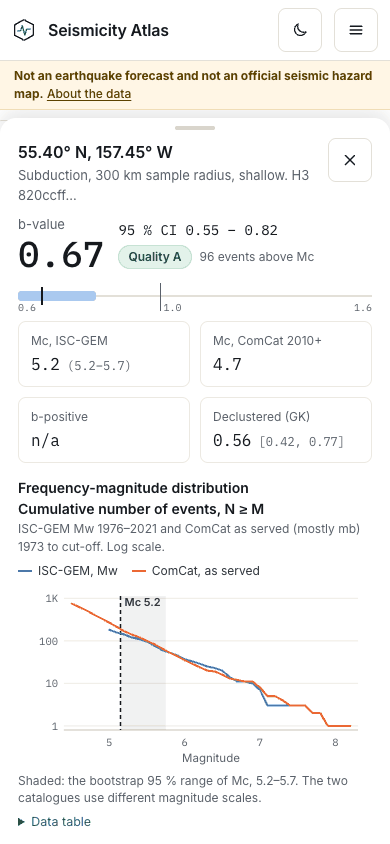
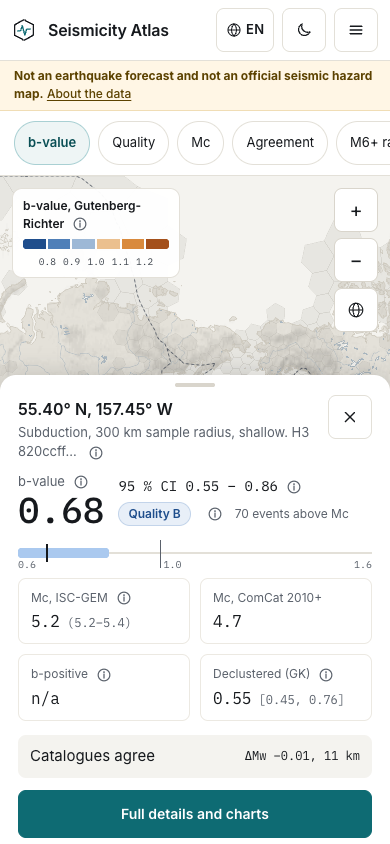
Docs: final info-button table in docs/learn.md and a Learn section in the README; refreshed screenshots; About source list wraps at 360 px

diff --git a/docs/learn.md b/docs/learn.md
@@ -5,14 +5,15 @@ structure: one sentence, a simple explanation with an everyday picture, a **real
 at run time**, an interactive diagram, technical details, further reading and previous/next navigation.
 A concept page is `#v=learn&t=<concept-id>`; the index is `#v=learn`.
 
-Phase 1 (this document's first version) adds the view, the content in four languages and the `infoButton`
-helper. Phase 2 places the (i) buttons in the map, panel, legend and pages, using the table at the end.
+The (i) buttons that open these pages from the rest of the site are listed in the table at the end.
 
 ## Files
 
 | Path | What it holds |
 |---|---|
-| `site/js/info.js` | `infoButton(conceptId, label)`: the (i) link, `#v=learn&t=<id>`, accessible name "What is {label}? Open the explanation" |
+| `site/js/info.js` | `infoButton(id)`, `withInfo(el, id)`, `infoKey(items)`: the (i) buttons, accessible name "About <concept>" |
+| `site/js/info-rail.js` | places the buttons in the static map controls and the disclaimer |
+| `tests/e2e/test_info.py` | browser tests of every button |
 | `site/js/learn/registry.js` | `CONCEPTS` (id, group, diagram) in reading order and `GROUPS` |
 | `site/js/learn/view.js` | `renderLearn(root, {topic, back})`: index and concept pages, language fallback, placeholder filling |
 | `site/js/learn/examples.js` | one loader per concept: `{vars, map, data}` read from `site/data` |
@@ -25,7 +26,7 @@ helper. Phase 2 places the (i) buttons in the map, panel, legend and pages, usin
 | `site/js/i18n/<lang>.js`, block `// learn` | interface strings of the Learn view |
 | `tests/e2e/test_learn.py` | browser tests |
 
-Shared-file hooks are deliberately small: `app.js` registers the `learn` view, the `t` hash parameter, a
+Shared-file hooks of the Learn view itself are small: `app.js` registers the `learn` view, the `t` hash parameter, a
 remembered return hash and a dynamic `import('./learn/view.js')`; `index.html` adds one nav link, one section and
 one stylesheet link. Nothing under `site/js/learn/` is fetched on a first visit to the map (covered by a test).
 
@@ -74,7 +75,7 @@ for Learn. All DOIs except the CORSSA one (DataCite, taken from `docs/prior-work
 ## Adding a concept
 
 1. Add `{ id, group, diagram }` to `CONCEPTS` in `registry.js`, at the place it should appear in the reading order.
-   Ids are stable kebab-case; they appear in URLs and in phase-2 buttons, so never rename one.
+   Ids are stable kebab-case; they appear in URLs and in the (i) buttons, so never rename one.
 2. Add a loader to `EXAMPLES` in `examples.js` returning `{ vars, map, data }`. Choose the example by a rule, format
    every number with `fmt.js`, and build the map link with `mapHash()` (no language: the current one is kept).
 3. Write `diagrams/<name>.js` (or reuse one) with `figure()`, `frame()`, `slider()`, `toggle()` and, for motion,
@@ -87,7 +88,9 @@ for Learn. All DOIs except the CORSSA one (DataCite, taken from `docs/prior-work
 5. Add references to `refs.js` (only works cited in `docs/`; check the DOI).
 6. Translate into `uz`, `ru`, `es` with the same keys and placeholders, and add the id to each `_index.js`. A language
    whose `_index.js` lacks the id shows the English page with a "translation pending" note, never an empty page.
-7. Add the id to `CONCEPTS` in `tests/e2e/test_learn.py` and run the tests.
+7. Add `learn.c.<id>` (the title, used in the buttons' "About …" name) to the `// learn` block of every i18n file.
+8. Add the id to `CONCEPTS` in `tests/e2e/test_learn.py`, place buttons where the concept is shown (update the
+   table below and `VIEWS` in `tests/e2e/test_info.py`) and run the tests.
 
 ## Languages
 
@@ -107,102 +110,165 @@ pending note, diagram and map link present), the diagram controls (including key
 the info button, "Back to where I was", "Show this on the map", language persistence across links and reloads, an
 unknown id, and that the map's first load does not fetch Learn code.
 
-## Phase 2: where the (i) buttons go
+## Info buttons: where each (i) points
 
-Use `infoButton(id, label)` from `site/js/info.js`, placed right after the visible label; `label` is the same
-translated text the element already shows. The button is a link, so it works from any view; the Learn page offers
-"Back to where I was", which returns to the exact previous hash (layer, depth, cell, map position, comparison).
+`infoButton(id)` (`site/js/info.js`) is a `<button>` with the accessible name "About <concept title>" in the current
+language (`learn.about` and `learn.c.<id>` in the `// learn` block of each i18n file), a 24 × 24 px target and a
+16 px icon. Clicking it (or Enter/Space) sets `#v=learn&t=<id>`; `app.js` remembers the previous hash, and the Learn
+page's "Back to where I was" restores it exactly (view, layer, depth, cell, comparison, map position, sequence).
+Buttons in the static map controls are placed by `site/js/info-rail.js` and relabelled on a language change.
 
-### Map controls (`index.html`, `app.js`)
+**Placement rules** (checked against the ui-ux-pro-max guidance: consistent position of help, web target ≥ 24 px,
+≥ 8 px from the next target, no clutter):
 
-| UI element | Where (file, selector or i18n key) | Concept id |
+- the button sits right after the label or heading it explains, never next to each number;
+- at most one button per concept per block (control group, legend, panel section, card, notice). A concept can
+  appear in two blocks of one view, for example b in the panel summary and again on the "b against cutoff" chart;
+- list pages with many cards (Sequences, Ongoing) get one key strip of terms above the cards (`infoKey`), not a
+  button on every card;
+- tooltips get none (hover-only, too small); the cell panel that a click opens carries the same terms.
+
+### Counts per view (desktop, measured)
+
+| View | Buttons |
+|---|---|
+| Disclaimer strip (every view) | 1 |
+| Map controls (rail) | 10 |
+| Legend (b layer with plates and events on; regional block when a region is chosen) | 1 title + 1 per overlay or region block (3 with plates and events) |
+| Cell panel (global cell, with charts) | 12 |
+| Comparison verdict | 2 (3 when the cells come from different catalogues) |
+| Sequences | 3 (key strip) |
+| Ongoing (Sequence Monitor) | 7 (notice + key strip of 6) |
+| Depth 3D | 4 |
+| Validation | 10 |
+| About | 2 |
+
+### Map controls (`index.html`, placed by `info-rail.js`)
+
+| UI element | Selector / i18n key | Concept id |
 |---|---|---|
-| Layer chip "b-value" | `#chips [data-layer=b]`, `chip.b` | `gutenberg-richter-b-value` |
-| Layer chip "Quality" | `#chips [data-layer=q]`, `chip.q` | `quality-codes` |
-| Layer chip "Mc" | `#chips [data-layer=mc]`, `chip.mc` | `magnitude-of-completeness` |
-| Layer chip "Agreement" | `#chips [data-layer=cc]`, `chip.cc` | `catalogue-consistency` |
-| Layer chip "M6+ rate" | `#chips [data-layer=rate]`, `chip.rate` | `rate-m6` |
-| Depth chip / Depth group | `#chip-depth`, `rail.depth` legend of `#depth-seg` | `depth-and-slabs` |
-| Layer list "b-value with 95 % interval" | `#layer-list input[value=b]`, `ll.b` | `gutenberg-richter-b-value` |
-| Layer list hint "Quality-gated" | `ll.bHint` | `quality-codes` |
-| Layer list "Estimate quality" | `ll.q` | `quality-codes` |
-| Layer list "Completeness Mc" | `ll.mc` | `magnitude-of-completeness` |
-| Layer list "Catalogue disagreement" | `ll.cc` | `catalogue-consistency` |
-| Layer list "Mw ≥ 6 rate" | `ll.rate` | `rate-m6` |
-| Regional catalogues group | `#reg-group` legend, `reg.group` | `regional-catalogues` |
-| Overlay "Plate boundaries (PB2002)" | `#chk-plates` label, `rail.plates` | `plate-boundary-classes` |
-| Overlay "Events M ≥ 6 / M ≥ 5" | `#lbl-m6`, `#lbl-m5` | `magnitude-types` |
-| "Statistics window" and its hint | `rail.window`, `rail.windowHint` | `direct-vs-proxy-mw` |
 | Disclaimer strip | `#disclaimer`, `disc.strong` | `not-a-forecast` |
+| Depth group title | `#depth-seg` legend, `rail.depth` | `depth-and-slabs` |
+| Layer "b-value with 95 % interval" | `#layer-list` row `b`, `ll.b` | `gutenberg-richter-b-value` |
+| Layer "Estimate quality" | row `q`, `ll.q` | `quality-codes` |
+| Layer "Completeness Mc" | row `mc`, `ll.mc` | `magnitude-of-completeness` |
+| Layer "Catalogue disagreement" | row `cc`, `ll.cc` | `catalogue-consistency` |
+| Layer "Mw ≥ 6 rate" | row `rate`, `ll.rate` | `rate-m6` |
+| Layer "No cell layer" | row `none` | (none) |
+| Regional catalogues group | `#reg-group` legend, `reg.group` | `regional-catalogues` |
+| Overlay "Plate boundaries (PB2002)" | `#chk-plates` row, `rail.plates` | `plate-boundary-classes` |
+| Overlay "Events M ≥ 6" | `#chk-events` row, `#lbl-m6` | `magnitude-types` |
+| "Statistics window" | `.stat-window .group-title`, `rail.window` | `direct-vs-proxy-mw` |
+| Phone layer chips | `#chips` | (none: chips are buttons; the same rail opens with "More") |
+| Base map group (relief, 3D terrain) | `#bm-group` | (none, see below) |
 
-### Legend (`layers.js` / `map.js`, keys `layer.*`, `lg.*`)
-
-| UI element | i18n key | Concept id |
-|---|---|---|
-| b legend title | `layer.b.title` | `gutenberg-richter-b-value` |
-| b legend unit line ("events within {r} km of the cell centre") | `layer.b.unit` | `h3-cells-and-sample-radius` |
-| Quality A / B / C rows, "Insufficient" row | `layer.b.qA`, `layer.b.qB`, `layer.b.qC`, `layer.insufficient`, `layer.q.*` | `quality-codes` |
-| Quality legend unit ("bootstrap 95 % interval") | `layer.q.unit` | `confidence-interval-bootstrap` |
-| Mc legend titles | `layer.mc.title.ig`, `.cc`, `.cc0` | `magnitude-of-completeness` |
-| Mc ComCat note ("not on the same scale as ISC-GEM") | `layer.mc.noteCc` | `magnitude-types` |
-| Agreement legend, ΔMw, epicentre difference | `layer.cc.title`, `layer.dmw.title`, `layer.dloc.title` | `catalogue-consistency` |
-| Rate legend title and note | `layer.rate.title`, `layer.rate.note` | `rate-m6` (note: `not-a-forecast`) |
-| Plate boundary legend line | `lg.plates` | `plate-boundary-classes` |
-| Earthquakes legend ("Earthquakes by magnitude") | `lg.quakes` | `magnitude-types` |
-| Regional legend block | regional name / licence line | `regional-catalogues` |
-
-### Cell panel (`panel.js`, keys `panel.*`, `fmd.*`, `mct.*`, `bc.*`, `agree.*`, `yr.*`)
+### Legend (`map.js` `renderLegend`)
 
 | UI element | i18n key | Concept id |
 |---|---|---|
-| Panel meta "{pb}, {r} km sample radius, {depth}" | `panel.meta` | `h3-cells-and-sample-radius` (plate class part: `plate-boundary-classes`) |
-| Big "b-value" label | `panel.bvalue` | `gutenberg-richter-b-value` |
-| "95 % CI lo – hi" and the interval scale bar | `panel.ci` | `confidence-interval-bootstrap` |
-| Quality pill (A/B/C/insufficient) | `qPill()` in `panel.js` | `quality-codes` |
-| "Cutoff-unstable" note | `panel.unstable` | `quality-codes` |
-| "Why no b" text (C or too few) | `panel.whyC`, `panel.whyFew`, `panel.noB.*` | `quality-codes` |
-| Tile "Mc, ISC-GEM" / "Mc, ComCat 2010+" | `panel.mcIg`, `panel.mcCc` | `magnitude-of-completeness` |
-| Tile "Events above Mc" | `panel.nAboveMc` | `magnitude-of-completeness` |
-| "b-positive" | `panel.bpos` | `b-positive` |
-| "Declustered (GK)" | `panel.bdecl` | `declustering` |
-| Agreement flag and list | `panel.flag.*`, `agree.h` | `catalogue-consistency` |
-| FMD section and chart | `fmd.h`, `fmd.title` | `frequency-magnitude-distribution` |
-| "The two catalogues use different magnitude scales." | `fmd.scales` | `magnitude-types` |
-| Completeness over time | `mct.h` | `magnitude-of-completeness` |
-| b against magnitude cutoff | `bc.h` | `gutenberg-richter-b-value` |
-| Yearly counts section | `yr.h` | `rate-m6` |
-| Regional cell source block | `regionalSource()` | `regional-catalogues` |
+| Title, b layer | `layer.b.title` | `gutenberg-richter-b-value` |
+| Title, quality layer | `layer.q.title` | `quality-codes` |
+| Title, Mc layer (all variants) | `layer.mc.title.*` | `magnitude-of-completeness` |
+| Title, agreement layer (all variants) | `layer.cc.title`, `layer.dmw.title`, `layer.dloc.title` | `catalogue-consistency` |
+| Title, rate layer | `layer.rate.title` | `rate-m6` |
+| Plate-boundary line | `lg.plates` | `plate-boundary-classes` |
+| "Earthquakes by magnitude" | `lg.quakes` | `magnitude-types` |
+| Regional block heading | `reg.legendHead` | `regional-catalogues` |
 
-### Comparison view (`compare.js`, keys `cmp.*`)
+### Cell panel (`panel.js`)
 
 | UI element | i18n key | Concept id |
 |---|---|---|
-| Chart title "b with 95 % interval" | `cmp.chartTitle` | `confidence-interval-bootstrap` |
-| Verdict heading (overlap / do not overlap / no comparison) | `cmp.overlapHead`, `cmp.separateHead`, `cmp.missingHead` | `confidence-interval-bootstrap` |
-| "These two cells share events" note | `cmp.shared` | `h3-cells-and-sample-radius` |
-| "Different catalogues" note | `cmp.mixedCatalogues` | `regional-catalogues` |
+| Meta line (sample radius), global cell | `panel.meta` | `h3-cells-and-sample-radius` |
+| Meta line, regional cell | `reg.panelMeta` | `regional-catalogues` |
+| "b-value" label | `panel.bvalue` | `gutenberg-richter-b-value` |
+| "95 % CI lo – hi" | `panel.ci` | `confidence-interval-bootstrap` |
+| Quality pill (A/B) | `qPill()` | `quality-codes` |
+| "No b-value shown" heading (C, insufficient) | `panel.noB.*` | `quality-codes` |
+| Tile "Mc, ISC-GEM" (regional: "Mc") | `panel.mcIg` | `magnitude-of-completeness` |
+| Tile "b-positive" | `panel.bpos` | `b-positive` |
+| Tile "Declustered (GK)" | `panel.bdecl` | `declustering` |
+| Section "Frequency-magnitude distribution" | `fmd.h` | `frequency-magnitude-distribution` |
+| Section "Completeness over time" | `mct.h` | `magnitude-of-completeness` |
+| Section "b against magnitude cutoff" | `bc.h` | `gutenberg-richter-b-value` |
+| Section "Yearly counts" (global cells) | `yr.h` | `rate-m6` |
+| Section "Catalogue agreement" | `agree.h` | `catalogue-consistency` |
+| Section "Source" (regional cells) | `reg.sourceH` | `regional-catalogues` |
 
-### Tooltip (`map.js`, keys `tt.*`)
-
-Tooltips are hover-only and short; no buttons there. Their content is covered by the panel buttons above.
-
-### Pages (`pages.js`)
+### Comparison view (`compare.js`)
 
 | UI element | i18n key | Concept id |
 |---|---|---|
-| Sequences page title / lede | `seq.h1`, `seq.lede` | `omori-utsu` |
-| Per-sequence p, c, K values and "c not resolved" | `seq.cUnres`, `seq.notResolved`, `om.title` | `omori-utsu` |
-| Sequence quality badge | sequence card badge | `omori-utsu` |
-| "Second large event in window" | `seq.contaminated` | `aftershock-productivity-bath` |
-| Sequence Monitor (upcoming, `feat/monitor`): productivity, expected aftershock numbers, Båth | – | `aftershock-productivity-bath` |
-| Validation "How a cell value is made" steps | `step.cells`, `step.cat`, `step.mc`, `step.b`, `step.gate`, `step.robust` | `h3-cells-and-sample-radius`, `direct-vs-proxy-mw`, `magnitude-of-completeness`, `confidence-interval-bootstrap`, `quality-codes`, `b-positive` |
-| Validation "b-value by plate-boundary class" | `val.plateH` | `plate-boundary-classes` |
-| Validation "Subduction b, young against old slabs" | `slab.title` | `depth-and-slabs` |
-| Validation "Global completeness floors" | `val.floorsH` | `magnitude-of-completeness` |
-| Validation "Omori-Utsu fitting, synthetic check" | `val.omoriH` | `omori-utsu` |
-| Validation "Limitations" item 7 | `lim.7` | `not-a-forecast` |
-| About page hazard notice | `about.hazard` | `not-a-forecast` |
-| 3D depth view (upcoming, `feat/terrain3d`) | its title | `depth-and-slabs` |
+| Verdict "The 95 % intervals overlap" / "do not overlap" | `cmp.overlapHead`, `cmp.separateHead` | `confidence-interval-bootstrap` |
+| Verdict "No comparison possible" | `cmp.missingHead` | `quality-codes` |
+| "These two cells share events" (when shown) | `cmp.shared` | `h3-cells-and-sample-radius` |
+| "Different catalogues" (when shown) | `cmp.mixedCatalogues` | `regional-catalogues` |
+
+### Sequences (`pages.js`, key strip under the summary)
+
+| Term | Concept id |
+|---|---|
+| p, c, K (and the fit quality badge) | `omori-utsu` |
+| Mcat | `magnitude-of-completeness` |
+| "Second large event in window" | `aftershock-productivity-bath` |
+
+### Ongoing / Sequence Monitor (`monitor.js`)
+
+| UI element | i18n key | Concept id |
+|---|---|---|
+| "Not a forecast" notice | `mon.noticeStrong` | `not-a-forecast` |
+| Key: p, c, K | – | `omori-utsu` |
+| Key: b | – | `gutenberg-richter-b-value` |
+| Key: Quality (Omori and b badges) | `col.quality` | `quality-codes` |
+| Key: b-positive | `mon.bpos` | `b-positive` |
+| Key: Productivity, Largest aftershock (Båth ΔM) | `mon.prod`, `mon.largest` | `aftershock-productivity-bath` |
+| Key: Above completeness (Mcat) | `mon.nMcat` | `magnitude-of-completeness` |
+
+### Depth 3D (`depth3d.js`)
+
+| UI element | i18n key | Concept id |
+|---|---|---|
+| "Slab2 slab surface" control | `d3.slab` | `depth-and-slabs` |
+| "Events by depth" card (depth classes, 70 km split) | `d3.binsH` | `depth-and-slabs` |
+| "b-value, shallow cells" card | `d3.bH.sh` | `gutenberg-richter-b-value` |
+| Cell counts by quality under it | `d3.bSub` | `quality-codes` |
+| "Depth exaggeration" | `d3.ex` | (none: a display setting, explained by its own hint) |
+
+### Validation (`pages.js`)
+
+| UI element | i18n key | Concept id |
+|---|---|---|
+| "b-value by plate-boundary class" | `val.plateH` | `plate-boundary-classes` |
+| Step "Cells and circles" | `step.cells` | `h3-cells-and-sample-radius` |
+| Step "Catalogue for b" | `step.cat` | `direct-vs-proxy-mw` |
+| Step "Completeness, Mc" | `step.mc` | `magnitude-of-completeness` |
+| Step "b and its interval" | `step.b` | `confidence-interval-bootstrap` |
+| Step "The quality gate" | `step.gate` | `quality-codes` |
+| Step "Robustness checks" | `step.robust` | `b-positive` |
+| "Global b in the atlas setting" | `val.globalH` | `gutenberg-richter-b-value` |
+| "Omori-Utsu fitting, synthetic check" | `val.omoriH` | `omori-utsu` |
+| "Limitations" | `val.limH` | `not-a-forecast` |
+
+### About (`pages.js`)
+
+| UI element | i18n key | Concept id |
+|---|---|---|
+| Notice (not a forecast, hazard link) | `about.notice`, `about.hazard` | `not-a-forecast` |
+| "Sources" | `about.sourcesH` | `catalogue-consistency` |
+
+### Not covered, on purpose
+
+- **Base map (relief, lakes, rivers, 3D terrain) and depth exaggeration.** These are display settings, not
+  catalogue quantities; no existing concept explains them and a new concept was not clearly needed. The relief is
+  documented in `docs/basemap.md` and on the About page; the Depth 3D view links `depth-and-slabs` from its slab
+  control and depth card.
+- **Map tooltip.** Hover-only and transient; the panel opened by the same click carries the buttons.
+- **Phone layer chips.** They are buttons and cannot contain another button; "More" opens the rail with the same
+  buttons.
+
+The table is enforced by `tests/e2e/test_info.py`: per view, the set of concepts with a visible button must match,
+no concept repeats inside one block, every button opens its concept and "Back to where I was" returns to the same
+URL state; at 360 px every button is at least 24 px, inside the screen, on top and not overlapping another control.
 
 ## Known limits
 

diff --git a/README.md b/README.md
@@ -73,6 +73,8 @@ Full tables and the reasons for each verdict: [docs/validation.md](docs/validati
 - [docs/data.md](docs/data.md): sources, magnitude types, depth, duplicates, coverage
 - [docs/data-schema.md](docs/data-schema.md): the data contract for the website (`site/data/`)
 - [docs/monitor.md](docs/monitor.md): the Sequence Monitor (ongoing sequences), its validation and limits
+- [docs/learn.md](docs/learn.md): the Learn pages (18 concepts, four languages), how to add a concept, and where each
+  (i) button points
 - [docs/prior-work.md](docs/prior-work.md): existing tools and literature, and the gap this atlas fills
 - [docs/ai-in-seismology.md](docs/ai-in-seismology.md): ML catalogues and LLM agents, and what they can and
   cannot add here
@@ -138,6 +140,12 @@ cd site && python3 -m http.server 8000   # then open http://localhost:8000/
   Descriptive only, not a forecast. See below.
 - **Validation:** every test against published values, including the mismatch and the untestable rows.
 - **About & data:** sources, licences, data cut-off, how to cite, downloads.
+- **Learn:** one page per concept behind the numbers (magnitude types, Mc, the FMD, b and its interval, quality
+  codes, b-positive, declustering, Omori-Utsu, Båth's law, H3 cells, plate classes, depth and slabs, rates,
+  catalogue consistency, regional catalogues, why this is not a forecast), each with a plain explanation, a real
+  example read from `site/data`, an interactive diagram, technical details and references, in all four languages.
+  Small (i) buttons next to the labels of the map, legend, cell panel, comparison, Sequences, Ongoing, Depth 3D,
+  Validation and About open the matching page; "Back to where I was" returns to the same view. Loaded on demand.
 - Vendored: MapLibre GL JS 5.24.0 (BSD-3-Clause), Inter and IBM Plex Mono (SIL OFL 1.1). No CDN, no third-party
   tiles. Design notes: [docs/ux-notes.md](docs/ux-notes.md); open issues: [docs/known-issues.md](docs/known-issues.md).
 - Browser tests: `tests/e2e/` (Playwright for Python; serves `site/` locally). Run
